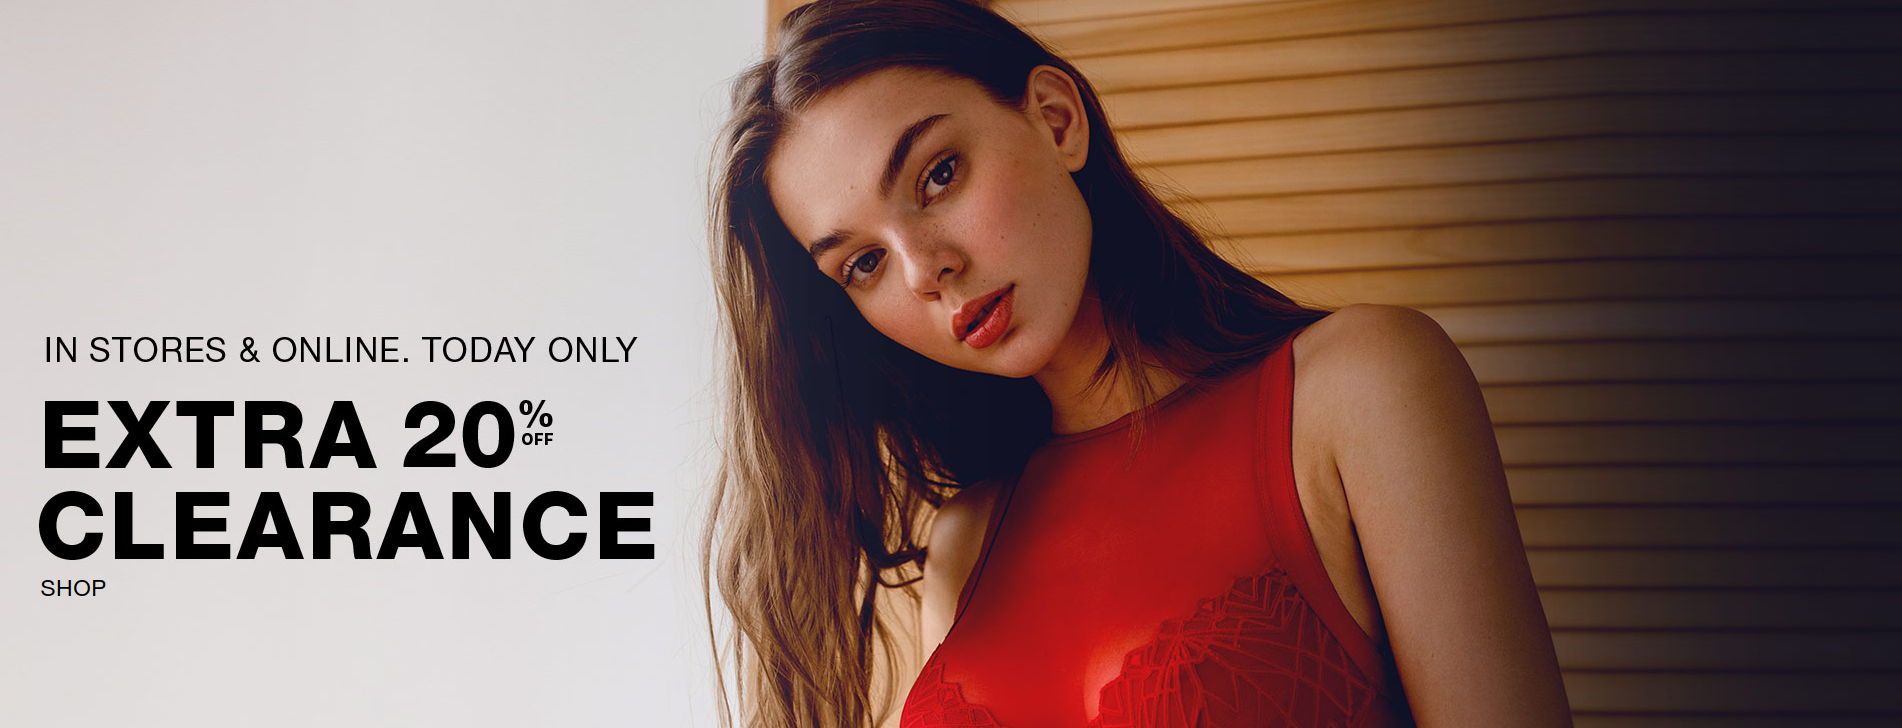
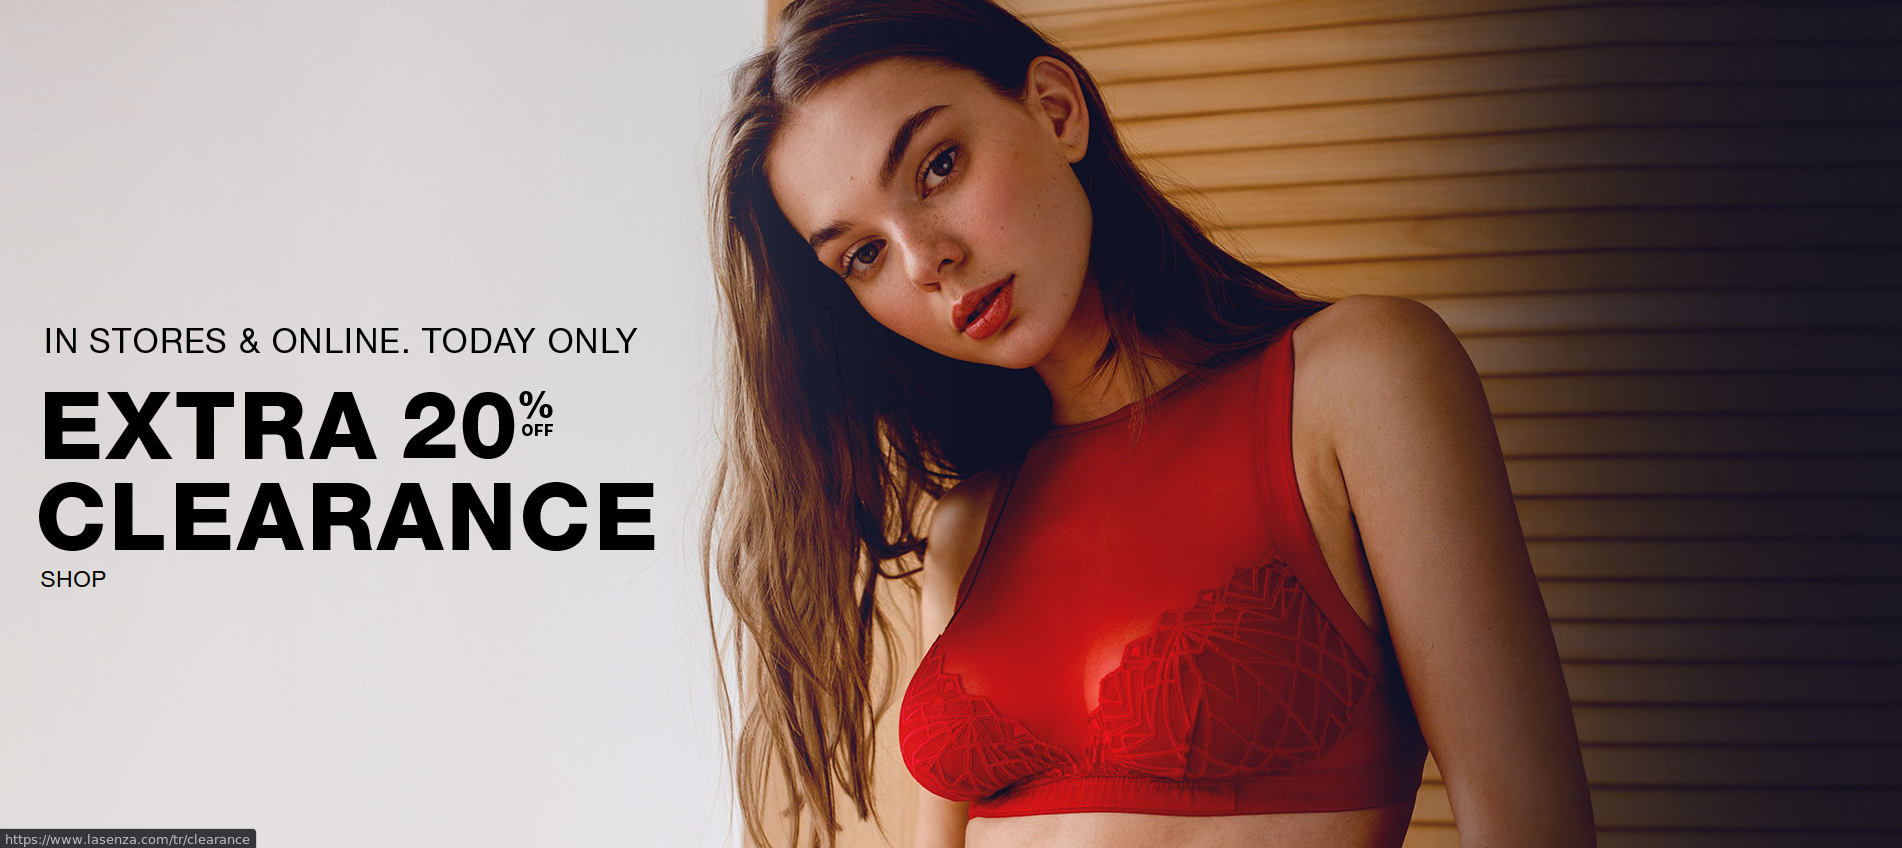
main page: fixed image

Changed region(s): [[0.0, 0.0, 0.8375, 1.0], [0.031, 0.3626, 0.3412, 0.4231], [0.0, 0.967, 0.1551, 1.0]]

diff --git a/src/app/components/main-page/main-page.component.ts b/src/app/components/main-page/main-page.component.ts
@@ -1,4 +1,4 @@
-import { Component, HostListener, OnInit } from '@angular/core';
+import { AfterViewInit, Component, ElementRef, HostListener, OnInit, ViewChild } from '@angular/core';
 
 @Component({
   selector: 'app-main-page',
@@ -6,15 +6,21 @@ import { Component, HostListener, OnInit } from '@angular/core';
   styleUrls: ['./main-page.component.scss']
 })
 export class MainPageComponent implements OnInit {
+  @ViewChild('first') firstImage!: ElementRef;
+
+  readonly RATIO: number = 2.24;
 
   constructor() { }
 
   ngOnInit(): void {
+    this.onResize(null);
   }
 
-  @HostListener('window:scroll', ['$event'])
-  checkScroll() {
-    (document.querySelector('#black-bar') as HTMLElement).style.marginTop = `-${window.scrollY / 2}px`;
+  @HostListener('window:resize', ['$event'])
+  onResize(event: any) {
+    var height = window.innerWidth / this.RATIO;
+    console.log(height);
+    (document.querySelector('#black-bar') as HTMLElement).style.marginTop = `${height - 100}px`;
   }
 
 }

diff --git a/src/app/components/main-page/main-page.component.html b/src/app/components/main-page/main-page.component.html
@@ -1,6 +1,6 @@
 <div class="wrapper">
     <div id="first">
-        <img src="assets/background/1.png" alt="">
+        <img #first src="assets/background/1.png" alt="">
     </div>
     <div id="black-bar">
         <a id="sign-up" href="">SIGN UP TO GET 10% OFF EVERYTHING</a>

diff --git a/src/app/components/main-page/main-page.component.scss b/src/app/components/main-page/main-page.component.scss
@@ -30,6 +30,11 @@ a:hover {
 }
 
 #first {
-    position: relative;
+    top: 60px;
+    position: fixed;
     z-index: -1;
+}
+
+#black-bar {
+    margin-top: 750px;
 }
